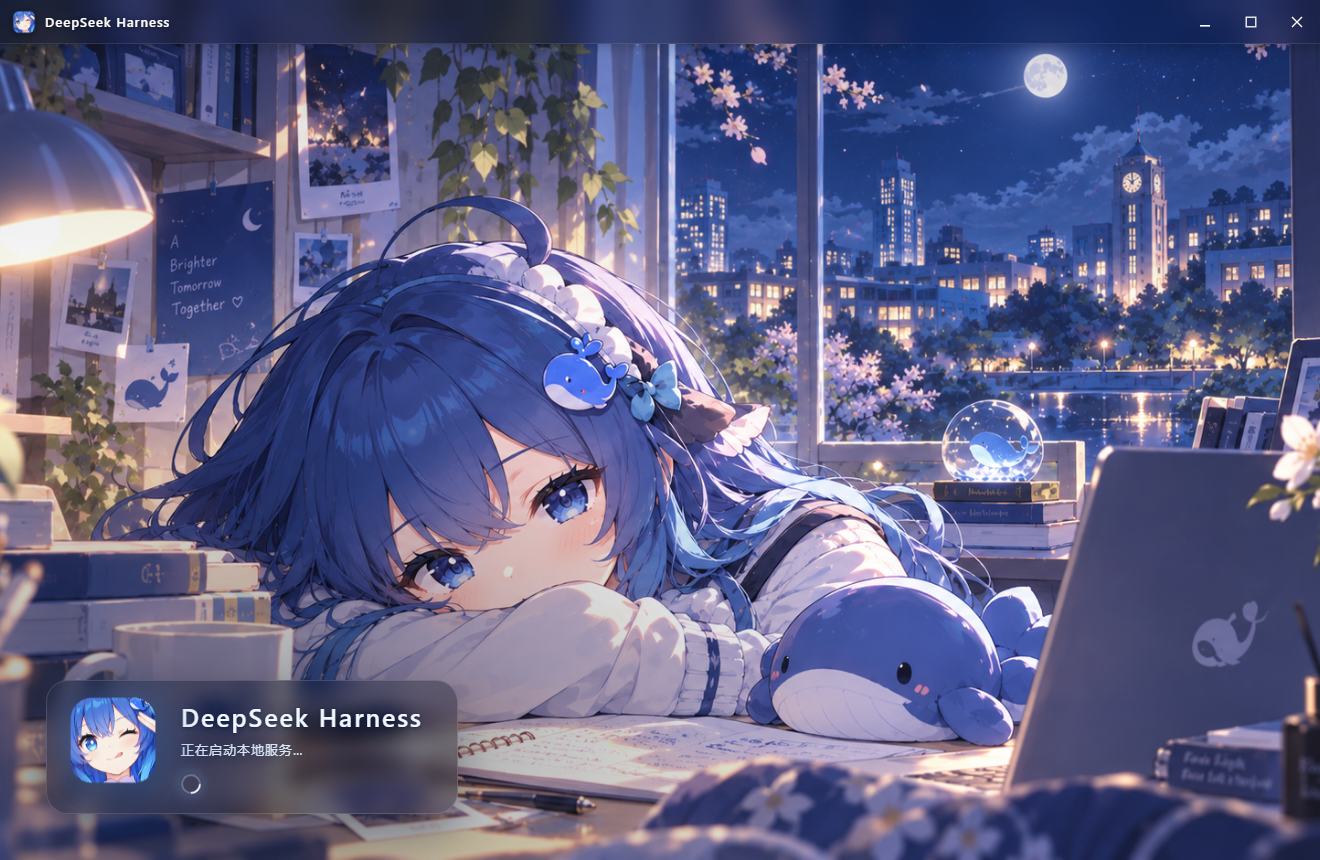
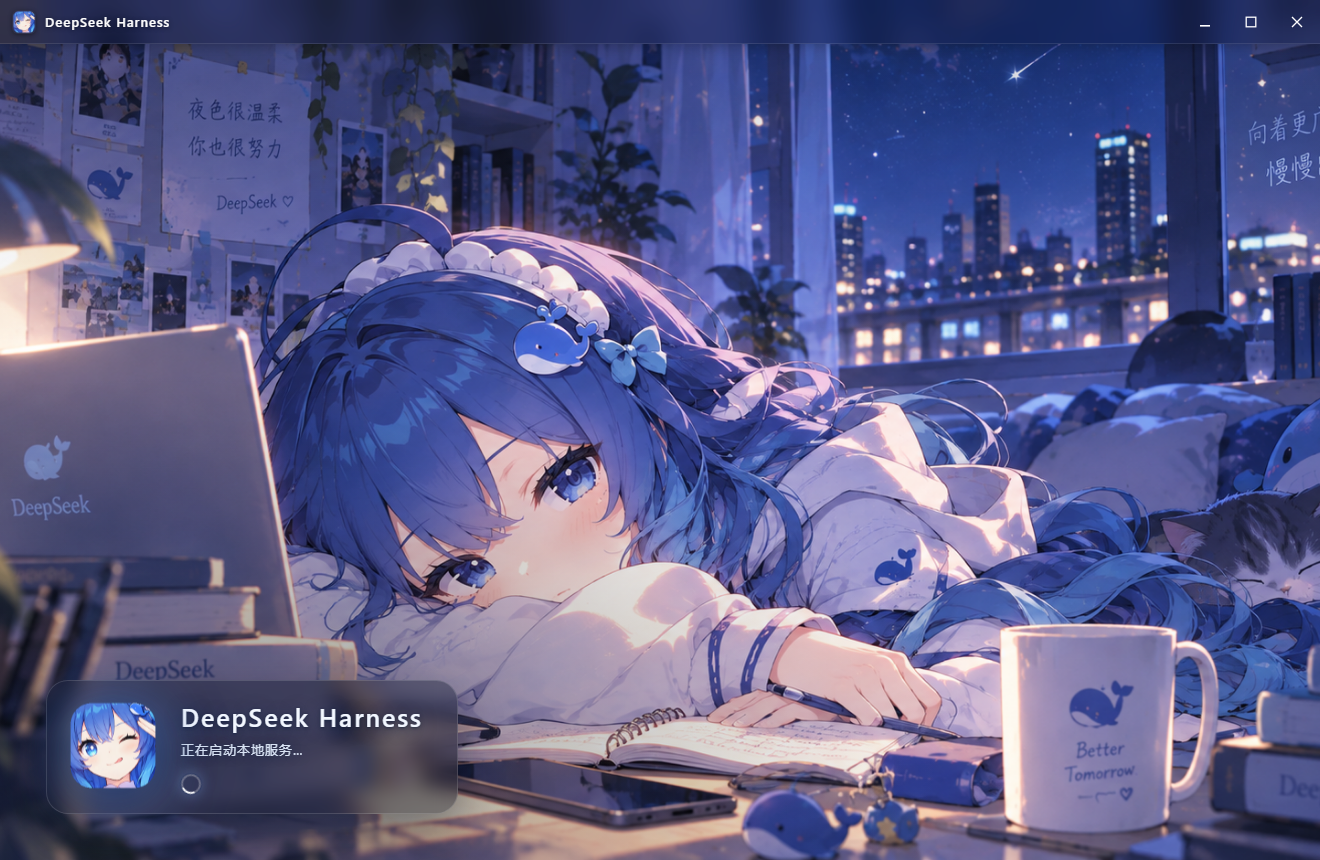
chore(assets): 同步壁纸增删（+街头 x2，-白天/-白天2/-夜晚1）
- 新增 bg-street.png / bg-street-2.png（源：新客户端/背景图 街头*.png）
- 删除源目录已不存在的 bg-day.png / bg-day-2.png / bg-night-1.png
- 壁纸现为 5 张；pickBackground() 每次启动现扫目录，所以代码无需改动
- 03-启动界面-夜晚.png 原图用的是已删除的 bg-night-1，改用 bg-night-2 重截
- 01-主界面.png 换用新街景重截，带头像验收（明亮占比 + 方差 + 壁纸层状态）
- README（总览与 desktop 两份）壁纸清单同步为实际 5 张

diff --git a/README.md b/README.md
@@ -41,7 +41,7 @@
 </div>
 
 - **双击即用**：`desktop\start.bat` 先探测 `127.0.0.1:3080` —— 已在跑就直接复用，没跑就自己拉起来；关窗时把后端子进程树一起收干净。
-- **随机壁纸**：6 张壁纸每次启动随机挑一张，**启动界面与主界面用同一次随机结果**。换壁纸只需往 `desktop/assets/backgrounds/` 增删图片，不用改代码。
+- **随机壁纸**：`desktop/assets/backgrounds/` 里现有 5 张（白天 / 夜晚 / 海边 / 街头 ×2），每次启动随机挑一张，**启动界面与主界面用同一次随机结果**。增删图片即可换壁纸，不用改代码。
 - **窗口状态会被记住**：尺寸、位置、是否最大化存在 `%APPDATA%\dsh-desktop\window-state.json`，下次原样恢复。最大化时记的是**还原尺寸**，所以「最大化 → 关闭 → 再开」不会把窗口永久顶满屏；拔掉外接屏后会自动只丢位置、保留尺寸，避免窗口跑到看不见的地方。
 - **无边框 + 注入式标题栏**：标题栏由 preload 注入并做毛玻璃，让真实壁纸透上来；窗口控制、品牌标、壁纸层同源。
 - **一套美术资源两处复用**：`assets/icon-src.png` 既生成 `icon.ico`（多尺寸，任务栏/资源管理器），也生成 `splash.png`（标题栏 24px 品牌标 + 启动界面 Logo）：

diff --git a/desktop/README.md b/desktop/README.md
@@ -46,12 +46,17 @@ start.bat
 
 ```
 assets/
-├─ icon-src.png              应用图标原图（1254×1254，圆角方图）
+├─ icon-src.png              应用图标原图（1254×1254，圆角方图；源图在 新客户端/图标.png）
 └─ backgrounds/              壁纸，每次启动随机挑一张（启动界面 + 主界面同一张）
-   ├─ bg-day.png  bg-day-1.png  bg-day-2.png      白天
-   ├─ bg-night-1.png  bg-night-2.png              夜晚（启动界面自动用更轻的压暗）
-   └─ bg-seaside.png                              海边
+   ├─ bg-day-1.png           白天
+   ├─ bg-night-2.png         夜晚（启动界面自动用更轻的压暗）
+   ├─ bg-seaside.png         海边
+   ├─ bg-street.png          街头
+   └─ bg-street-2.png        街头 · 店门口
 ```
+
+> 加图/删图都不用改代码：`main.js` 的 `pickBackground()` 每次启动现扫 `assets/backgrounds/`，随机取一张。
+> 源素材放在 `新客户端/`，成品文件名统一改成 ASCII（`bg-*.png`）后再放进 `assets/backgrounds/`。
 
 - `icon.ico`（Windows 任务栏 / 资源管理器）与 `splash.png`（标题栏 24px 品牌标 + 启动界面 Logo）都由 `assets/icon-src.png` 生成：
 
